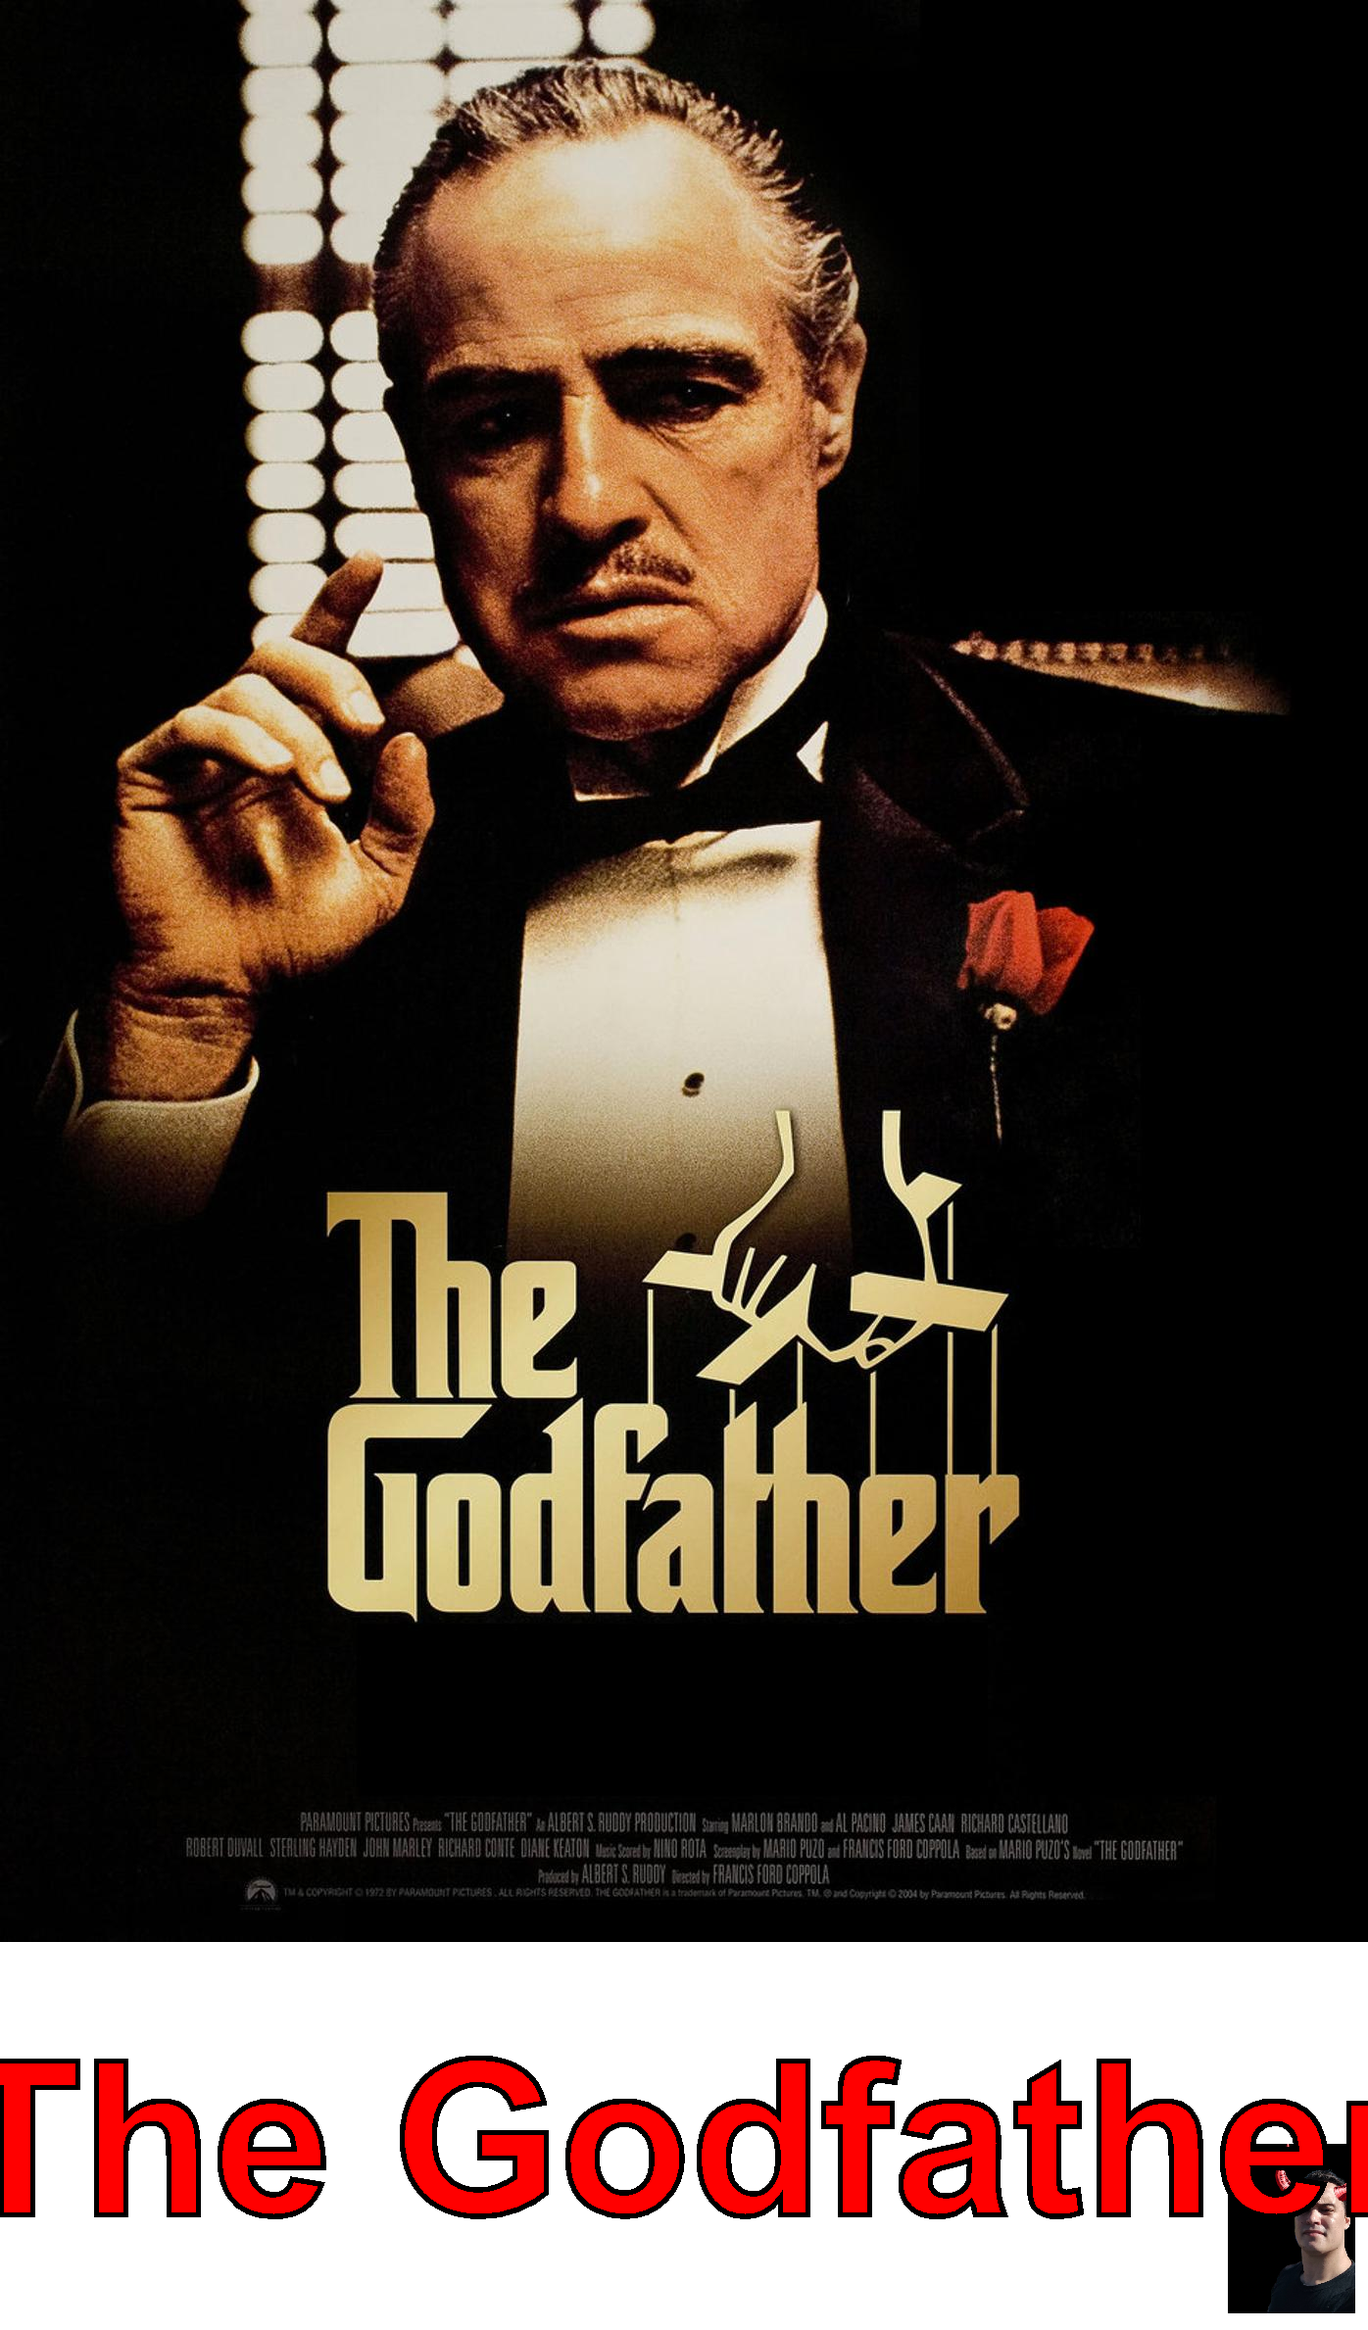
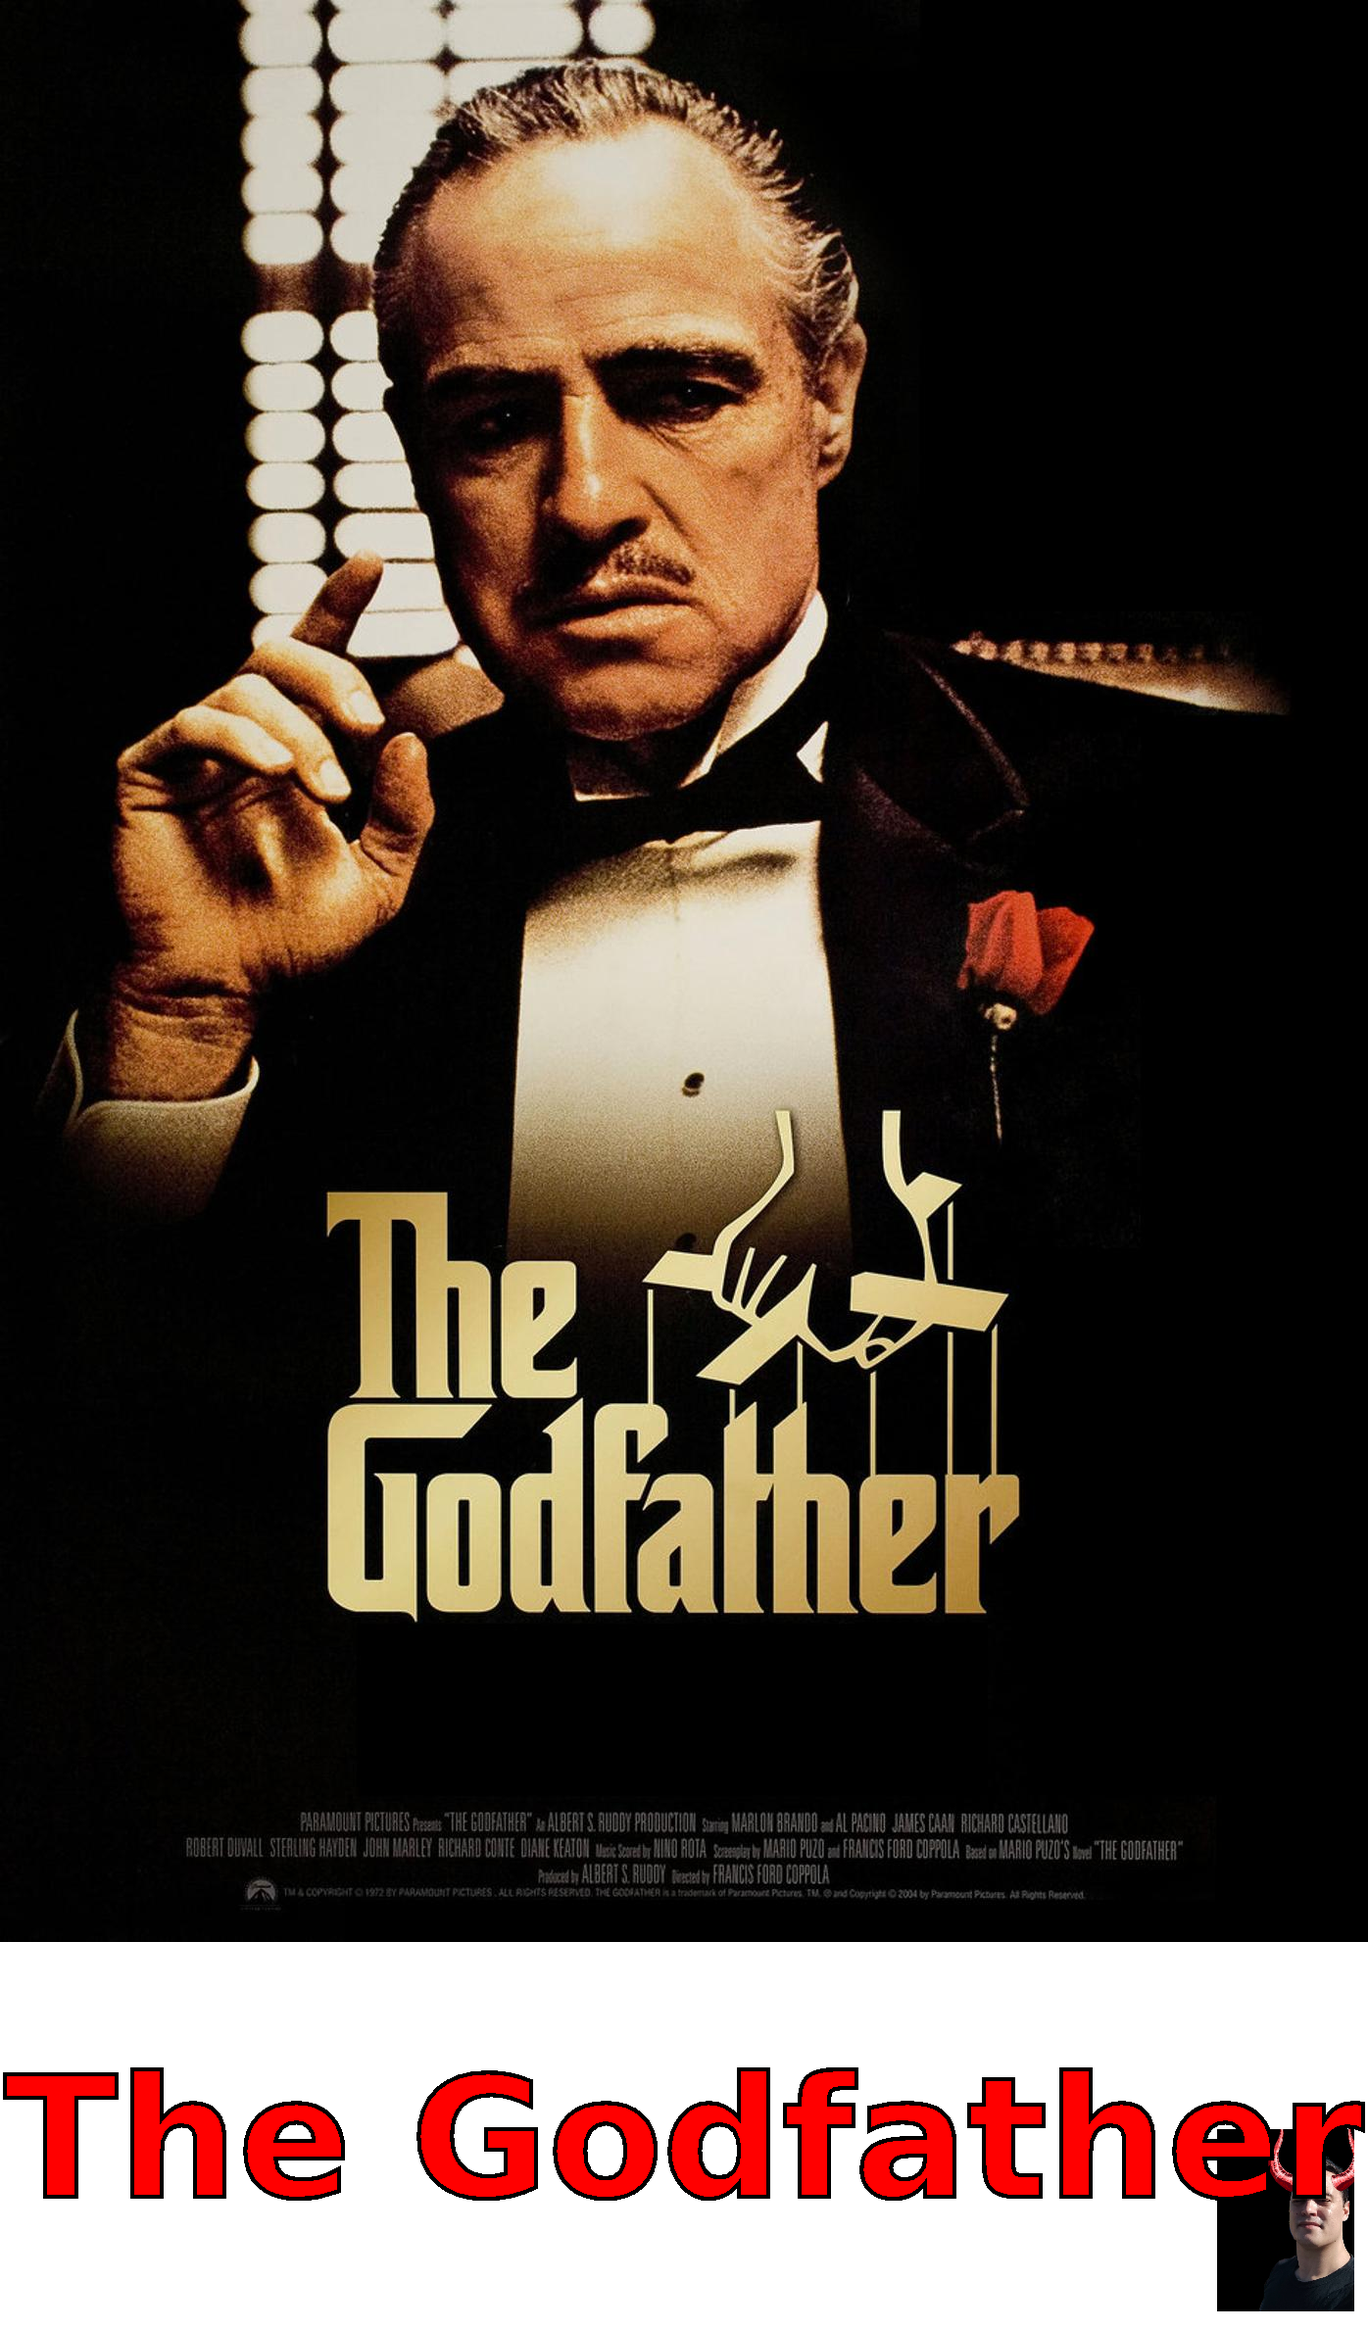
Update to class 03 challenges

Changed region(s): [[0.2772, 0.8713, 1.0, 0.9958], [0.0, 0.8713, 0.2464, 0.9647]]

diff --git a/src/StickerFactory.java b/src/StickerFactory.java
@@ -46,6 +46,13 @@ public class StickerFactory {
         this.create(sourceImage, "", null);
     } 
 
+    /**
+     * Create a sticker
+     * @param sourceImage
+     * @param text
+     * @param watermark
+     * @throws IOException
+     */
     public void create(InputStream sourceImage, String text, InputStream watermark) throws IOException{
         /*
          * Clean source text
@@ -77,8 +84,8 @@ public class StickerFactory {
         */
         if (watermark != null){
             BufferedImage waterMarkImage = ImageIO.read(watermark);
-            float scale = Math.min((orgWidth/waterMarkImage.getWidth())*0.1f, (orgHeight/waterMarkImage.getHeight())*0.1f);
-            waterMarkImage = resizeImage(waterMarkImage, Math.round(waterMarkImage.getWidth()*scale), Math.round(waterMarkImage.getHeight()*scale));
+            float scale = Math.min((orgWidth*1f/waterMarkImage.getWidth()*1f)*0.1f, (orgHeight*1f/waterMarkImage.getHeight()*1f)*0.1f);
+            waterMarkImage = resizeImage(waterMarkImage, scale);
 
             /*
             * Write water mark
@@ -127,6 +134,15 @@ public class StickerFactory {
         this.saveImage(resized, ImageExtension.PNG.description, OUTPUT, this.getFileName(text, ImageExtension.PNG.description));
     }
 
+    /**
+     * Save image
+     * @param image
+     * @param extension
+     * @param path
+     * @param name
+     * @return
+     * @throws IOException
+     */
     public boolean saveImage(RenderedImage image, String extension, String path, String name) throws IOException{
         File folder = new File(path);
         if(!folder.exists()) folder.mkdir();
@@ -141,6 +157,9 @@ public class StickerFactory {
 
     /**
      * Create file name
+     * @param text
+     * @param extension
+     * @return
      */
     private String getFileName(String text, String extension){
         return getFileName(OUTPUT, text, extension);
@@ -148,6 +167,10 @@ public class StickerFactory {
 
     /**
      * Create file name
+     * @param output
+     * @param text
+     * @param extension
+     * @return
      */
     private String getFileName(String output, String text, String extension){
         return output + text.toLowerCase()
@@ -156,7 +179,17 @@ public class StickerFactory {
          + "." + extension;
     }
 
-
+    /**
+     * Get biggest font size for the specified region
+     * @param graphics
+     * @param text
+     * @param fontName
+     * @param fontStyle
+     * @param height
+     * @param width
+     * @return
+     * 
+     */
     private int getFontSize(Graphics2D graphics, String text, String fontName, int fontStyle, int height, int width){
         Font baseFont = new Font(fontName, fontStyle, Math.round((width*1.4f)/(text.length()-1)));
         graphics.setFont(baseFont);        
@@ -164,10 +197,16 @@ public class StickerFactory {
         return Math.min(Math.round(height * 0.25f), fontSize);
     }
 
-    /*
-     * Resize image
+    /**
+     * Resize images base on new height
+     * @param originalImage
+     * @param scale
+     * @return
+     * @throws IOException
      */
-    BufferedImage resizeImage(BufferedImage originalImage, int targetWidth, int targetHeight) throws IOException {
+    BufferedImage resizeImage(BufferedImage originalImage, float scale) throws IOException {
+        int targetWidth = Math.round(originalImage.getWidth() * scale);
+        int targetHeight = Math.round(originalImage.getHeight() * scale);
         BufferedImage resizedImage = new BufferedImage(targetWidth, targetHeight, BufferedImage.TYPE_INT_RGB);
         Graphics2D graphics2D = resizedImage.createGraphics();
         graphics2D.drawImage(originalImage, 0, 0, targetWidth, targetHeight, null);
@@ -176,9 +215,10 @@ public class StickerFactory {
         return resizedImage;
     }
 
-
     /**
      * Main used only to test the class functions and structure
+     * @param args
+     * @throws IOException
      */
     public static void main(String[] args) throws IOException {
         StickerFactory stickerFactory = new StickerFactory();

diff --git a/src/App.java b/src/App.java
@@ -1,66 +1,40 @@
 import java.io.File;
 import java.io.FileInputStream;
-import java.io.IOException;
 import java.io.InputStream;
-import java.net.URI;
 import java.net.URL;
-import java.net.http.HttpClient;
-import java.net.http.HttpRequest;
-import java.net.http.HttpResponse;
-import java.net.http.HttpResponse.BodyHandlers;
 import java.util.Collections;
 import java.util.Comparator;
 import java.util.List;
-import java.util.Map;
-import java.util.Properties;
 
 
 public class App {
     public static void main(String[] args) throws Exception {
         /*
-         * Load IMDB data with HTTP connection
+         * Load API data with HTTP connection
         */
-        String apiKey = getImdbApiKey();
-        System.out.println(apiKey);
-        // String rawUrl = "https://imdb-api.com/en/API/Top250Movies/" + apiKey;
-        // String rawUrl = "https://api.nasa.gov/planetary/apod?api_key=DEMO_KEY";
-        String rawUrl = "https://raw.githubusercontent.com/alura-cursos/imersao-java-2-api/main/TopMovies.json";
+        API api = API.IMDB_TOP_MOVIES;
+        ImageExtractor imageExtractor = api.getImageExtractor();
         HttpClientController httpClient = new HttpClientController();
-        String bodyString = httpClient.executeGET(rawUrl);
-        System.out.println(bodyString);
+        String bodyString = httpClient.executeGET(api.getUrl());
 
         /*
          * Extract json data
         */
-        ImageExtractor imageExtractor = new ImageExtractorImdb();
         List<Image> imagesList = imageExtractor.extractImages(bodyString);
 
         /*
          * Manipulate and show data
          *  
         */
-        int maxTitleLength = Collections.max(imagesList, Comparator.comparing(obj -> obj.getTitle().length())).getTitle().length();
-        int maxUrlLength = Collections.max(imagesList, Comparator.comparing(obj -> obj.getUrl().length())).getUrl().length();
+        int maxTitleLength = Collections.max(imagesList, Comparator.comparing(obj -> obj.title().length())).title().length();
+        int maxUrlLength = Collections.max(imagesList, Comparator.comparing(obj -> obj.url().length())).url().length();
         StickerFactory sf = new StickerFactory();
         for (Image image : imagesList) {
-            String imageTitle = image.getTitle() + String.join("", Collections.nCopies(maxTitleLength - image.getTitle().length(), " "));
-            String imageUrl = image.getUrl() + String.join("", Collections.nCopies(maxUrlLength - image.getUrl().length(), " "));
+            String imageTitle = image.title() + String.join("", Collections.nCopies(maxTitleLength - image.title().length(), " "));
+            String imageUrl = image.url() + String.join("", Collections.nCopies(maxUrlLength - image.url().length(), " "));
             System.out.println(imageTitle + "\t|\t" + imageUrl);
             InputStream watermark = new FileInputStream(new File("resources/watermark-devil.png"));
             sf.create(new URL(imageUrl).openStream(), imageTitle, watermark); 
         }
     }
-
-    private static String getImdbApiKey(){
-        Properties props = new Properties();
-        try {
-            props.load(new FileInputStream("resources/app.properties"));
-        } catch (IOException e) {
-            // Handle exception
-        }
-
-        // Get a property value
-        return props.getProperty("imdb-key");
-    }
-
 }

diff --git a/src/ImageExtractorNasa.java b/src/ImageExtractorNasa.java
@@ -9,31 +9,21 @@ public class ImageExtractorNasa implements ImageExtractor {
         /*
          * Extract json data
         */
-        JsonParser jsonParser = new JsonParser();
-        List<Map<String, String>> attributesList = jsonParser.parse(json);
-        List<Image> imagesList = new ArrayList<>();
-        
-        for (Map<String, String> attributes : attributesList) {
-            String title = attributes.get("title");
-            String imgUrl = attributes.get("url");
-            imagesList.add(new Image(title, imgUrl));
-        }
-        return imagesList;
+        List<Map<String, String>> attributesList = new JsonParser().parse(json);
+
+        return attributesList.stream().map(attribute -> 
+            new Image(attribute.get("title"),attribute.get("url"))
+        ).toList();
+
     }
     
     public List<Image> extractImages(String json, boolean hdImage){
         /*
          * Extract json data
         */
-        JsonParser jsonParser = new JsonParser();
-        List<Map<String, String>> attributesList = jsonParser.parse(json);
-        List<Image> imagesList = new ArrayList<>();
-        
-        for (Map<String, String> attributes : attributesList) {
-            String title = attributes.get("title");
-            String imgUrl = attributes.get("urlhd");
-            imagesList.add(new Image(title, imgUrl));
-        }
-        return imagesList;
+        List<Map<String, String>> attributesList = new JsonParser().parse(json);
+        return attributesList.stream().map(attribute -> 
+            new Image(attribute.get("title"),attribute.get("urlhd"))
+        ).toList();
     }
 }

diff --git a/src/JsonParser.java b/src/JsonParser.java
@@ -8,17 +8,18 @@ import java.util.regex.Pattern;
 public class JsonParser {
 
     private static final Pattern REGEX_ITEMS = Pattern.compile(".*\\[(.+)\\].*");
-    private static final Pattern REGEX_ATRIBUTOS_JSON = Pattern.compile("\"(.+?)\":\"(.*?)\"");
+    private static final Pattern REGEX_ATRIBUTOS_JSON = Pattern.compile("\\\"(.+?)\\\":\\\"(.*?)\\\"");
     
     public List<Map<String, String>> parse(String json) {
 
         Matcher matcher = REGEX_ITEMS.matcher(json);
-        if (!matcher.find()) {
-
-            throw new IllegalArgumentException("Não encontrou items.");
+        String[] items;
+        if (matcher.find()) {
+            items = matcher.group(1).split("\\},\\{");
+            //throw new IllegalArgumentException("Não encontrou items.");
+        } else {
+            items = json.split("\\},\\{");
         }
-
-        String[] items = matcher.group(1).split("\\},\\{");
 
         List<Map<String, String>> dados = new ArrayList<>();
 
@@ -27,6 +28,7 @@ public class JsonParser {
             Map<String, String> atributosItem = new HashMap<>();
 
             Matcher matcherAtributosJson = REGEX_ATRIBUTOS_JSON.matcher(item);
+            //if(!matcherAtributosJson.find()) throw new IllegalArgumentException("Não encontrou items.");
             while (matcherAtributosJson.find()) {
                 String atributo = matcherAtributosJson.group(1);
                 String valor = matcherAtributosJson.group(2);

diff --git a/src/HttpClientController.java b/src/HttpClientController.java
@@ -1,4 +1,3 @@
-import java.io.IOException;
 import java.net.URI;
 import java.net.http.HttpClient;
 import java.net.http.HttpRequest;
@@ -7,14 +6,21 @@ import java.net.http.HttpResponse.BodyHandlers;
 
 public class HttpClientController {
     
-    public String executeGET(String url) throws IOException, InterruptedException{
-        String body;
-        HttpClient client = HttpClient.newHttpClient();
-        URI uri = URI.create(url);
-        HttpRequest request = HttpRequest.newBuilder(uri).GET().build();
-        HttpResponse<String> response = client.send(request, BodyHandlers.ofString());
-        body = response.body();
-        return body;
+    public String executeGET(String url) {
+
+        try {
+            String body;
+            HttpClient client = HttpClient.newHttpClient();
+            URI uri = URI.create(url);
+            HttpRequest request = HttpRequest.newBuilder(uri).GET().build();
+            HttpResponse<String> response;
+            response = client.send(request, BodyHandlers.ofString());
+            body = response.body();
+            return body;
+        } catch (Exception e) {
+            throw new HttpClientControllerException(e.getStackTrace().toString());
+        }
+
     }
 
 }

diff --git a/src/API.java b/src/API.java
@@ -1,0 +1,38 @@
+import java.io.FileInputStream;
+import java.io.IOException;
+import java.util.Properties;
+
+public enum API {
+    IMDB_TOP_MOVIES("https://raw.githubusercontent.com/alura-cursos/imersao-java-2-api/main/TopMovies.json","imdb-key-mock", new ImageExtractorImdb()),
+    NASA_APOD("https://api.nasa.gov/planetary/apod?api_key=","nasa-key", new ImageExtractorNasa()),;
+
+    private String url;
+    private ImageExtractor imageExtractor;
+
+    public ImageExtractor getImageExtractor() {
+        return imageExtractor;
+    }
+
+    public String getUrl() {
+        return url;
+    }
+
+    API(String url, String key, ImageExtractor imageExtractor){
+        this.url = url  + getApiKey(key);
+        this.imageExtractor = imageExtractor;
+    }
+
+    private static String getApiKey(String key){
+        Properties props = new Properties();
+        try {
+            props.load(new FileInputStream("resources/app.properties"));
+        } catch (IOException e) {
+            return "";
+        }
+
+        // Get a property value
+        String property = props.getProperty(key);
+        if(property == null) property = "";
+        return property;
+    }
+}

diff --git a/src/ImageExtractorImdb.java b/src/ImageExtractorImdb.java
@@ -1,4 +1,3 @@
-import java.util.ArrayList;
 import java.util.List;
 import java.util.Map;
 
@@ -11,15 +10,9 @@ public class ImageExtractorImdb implements ImageExtractor {
         */
         JsonParser jsonParser = new JsonParser();
         List<Map<String, String>> attributesList = jsonParser.parse(json);
-        List<Image> imagesList = new ArrayList<>();
-        
-        for (Map<String, String> attributes : attributesList) {
-            String title = attributes.get("title");
-            String imgUrl = attributes.get("image");
-            imagesList.add(new Image(title, imgUrl));
-        }
-        
-        return imagesList;
+        return attributesList.stream().map(attribute -> 
+            new Image(attribute.get("title"),attribute.get("image"))
+        ).toList();
     }
     
 }

diff --git a/src/Image.java b/src/Image.java
@@ -1,19 +1,1 @@
-public class Image {
-    
-    private final String title;
-    private final String url;
-
-    public Image(String title, String url) {
-        this.title = title;
-        this.url = url;
-    }
-
-    public String getTitle() {
-        return title;
-    }
-    
-    public String getUrl() {
-        return url;
-    }
-
-}
+public record Image(String title, String url) {}

diff --git a/src/HttpClientControllerException.java b/src/HttpClientControllerException.java
@@ -1,0 +1,9 @@
+
+public class HttpClientControllerException extends RuntimeException{
+
+    public HttpClientControllerException(String errorMessage)  {
+        super(errorMessage);
+    }
+    
+
+}

diff --git a/README.md b/README.md
@@ -32,4 +32,6 @@ classDiagram
     ImageExtractorNasa --> JsonParser
     App --> StickerFactory
     StickerFactory : create(InputStream)
+    class `Image`
+    
 ```
